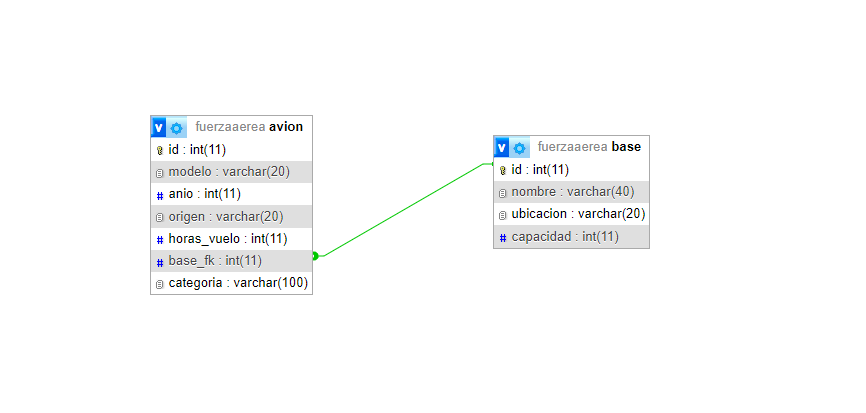
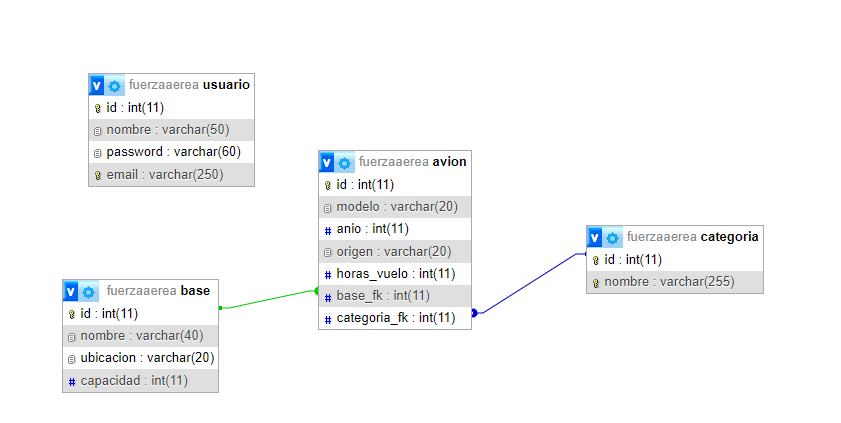
Actualización de README

Changed region(s): [[0.0618, 0.1743, 0.9275, 0.9298], [0.6183, 0.6392, 0.6492, 0.6683]]

diff --git a/README.md b/README.md
@@ -1,22 +1,46 @@
 # fuerza_aerea
 
 "Fuerza Aérea" es una repositorio creado para dar respuesta al Trabajo Práctico Especial de la materia Web 2 de la carrera TUDAI dicatada en la facultada de Exactas de la UNICEN.
-Sus desarrolladores, Nicolás Mateos (lordnicolas2) y Guillermo Castiglioni (GuilleAlbCasti), proponen diseñar una base de datos que pueda almacenar un conjunto de elementos clasificados en categorías y consecuentemente con un subconjunto de detalles a fin de que sea expuesta y administrada vía web.
+Su desarrollar,Guillermo Castiglioni (GuilleAlbCasti), propone diseñar una base de datos que pueda almacenar un conjunto de elementos clasificados en categorías y consecuentemente con un subconjunto de detalles a fin de que sea expuesta y administrada vía web.
 La temática elegida crea un marco "ficticio" en donde se logre aplicar los distintos requerimientos exigidos para alcanzar la aprobación en éste. En tal sentido, hemos buscado catalogar la diversidad de aeronaves que pueden llegar a conformar una fuerza aérea generando un entorno creativo para la creación de diversos objetos de elementos interrelacionados para poner en práctica los contenidos aprendidos en la materia.
 
-Otros aspectos:
+- Despliegue del Sitio en un Servidor con Apache y MySQL
 
-  - Los ítems deben estar modelados mediante una relación de 1 a N. Por ejemplo, se podrían pensar los ítems como pertenecientes a diferentes categorías, o como ítems que contienen
-    un conjunto de componentes.
-  - Se permite cualquier modelo de datos que se adapte a esta relación.
-  - El modelo de datos debe cumplir con los requisitos establecidos en la materia, ncluyendo la definición de claves primarias, relaciones entre entidades, tipos de datos y cualquier otro      aspecto relevante.
+  Para desplegar este proyecto en un servidor con Apache y MySQL, sigue estos pasos:
 
-1er Requerimiento:
+  - Requisitos Previos:
 
-  - Elaborar 1 archivo con extensión .sql con el fin de la construcción de la base de datos y la inserción de algunos datos de ejemplo.
-  - Una imágen con un diagrama de la base de datos.
-  - Un archivo README.md que incluya el diagrama y explique el dominio del trabajo.
+    Asegúrate de tener un servidor que tenga instalado Apache y MySQL. Puedes usar un servicio de alojamiento web o configurar tu propio servidor utilizando herramientas como XAMPP, LAMP o MAMP.
+    Verifica que PHP esté instalado y que sea compatible con la versión utilizada en el proyecto.
+    Configurar Apache:
 
+    Copia los archivos del proyecto en el directorio raíz de tu servidor Apache. En sistemas Linux, este directorio suele ser /var/www/html/, mientras que en XAMPP se encuentra en C:\xampp\htdocs\.
+    Si es necesario, ajusta la configuración del archivo .htaccess para manejar la reescritura de URL y asegurar que el servidor funcione correctamente. Este archivo se encuentra en la raíz del proyecto.
+    Configurar la Base de Datos:
+
+    Accede a phpMyAdmin o a la línea de comandos de MySQL en tu servidor.
+    Crea una nueva base de datos para tu proyecto. Puedes nombrarla según tu preferencia, como mi_proyecto.
+    Ejecuta los scripts SQL necesarios para crear las tablas requeridas (como categoria, base, avion, y usuario) en la base de datos recién creada. Asegúrate de que los scripts estén correctamente configurados según la estructura de tu base de datos.
+    Configurar el Archivo de Conexión:
+
+    Modifica el archivo de configuración (por ejemplo, config.php) para establecer la conexión a la base de datos. Asegúrate de que las credenciales (nombre de usuario, contraseña y nombre de la base de datos) sean correctas y se correspondan con la configuración de tu servidor MySQL.
+    Probar la Aplicación:
+
+    Una vez que todo esté configurado, accede a tu sitio web a través del navegador utilizando la dirección de tu servidor (por ejemplo, http://tu_dominio.com o http://localhost/mi_proyecto).
+    Verifica que todas las funcionalidades estén operativas y que no haya errores en la conexión a la base de datos.
+  
+  - Solución de Problemas:
+
+    Si encuentras problemas al desplegar el sitio, revisa los archivos de registro de Apache (como error.log) para obtener información detallada sobre los errores.
+    Asegúrate de que los permisos de los archivos y carpetas sean correctos, permitiendo que Apache acceda a los recursos necesarios.
+    Siguiendo estos pasos, deberías poder desplegar tu sitio correctamente en un servidor con Apache y MySQL. Si necesitas más información o asistencia, consulta la documentación oficial de Apache y MySQL o contacta al soporte técnico de tu proveedor de alojamiento.
+
+- Información necesaria para pruebas
+
+  - Ingreso como administrador:
+
+    Usuario: "webadmin"
+    Contraseña: "admin"
 
 
 
